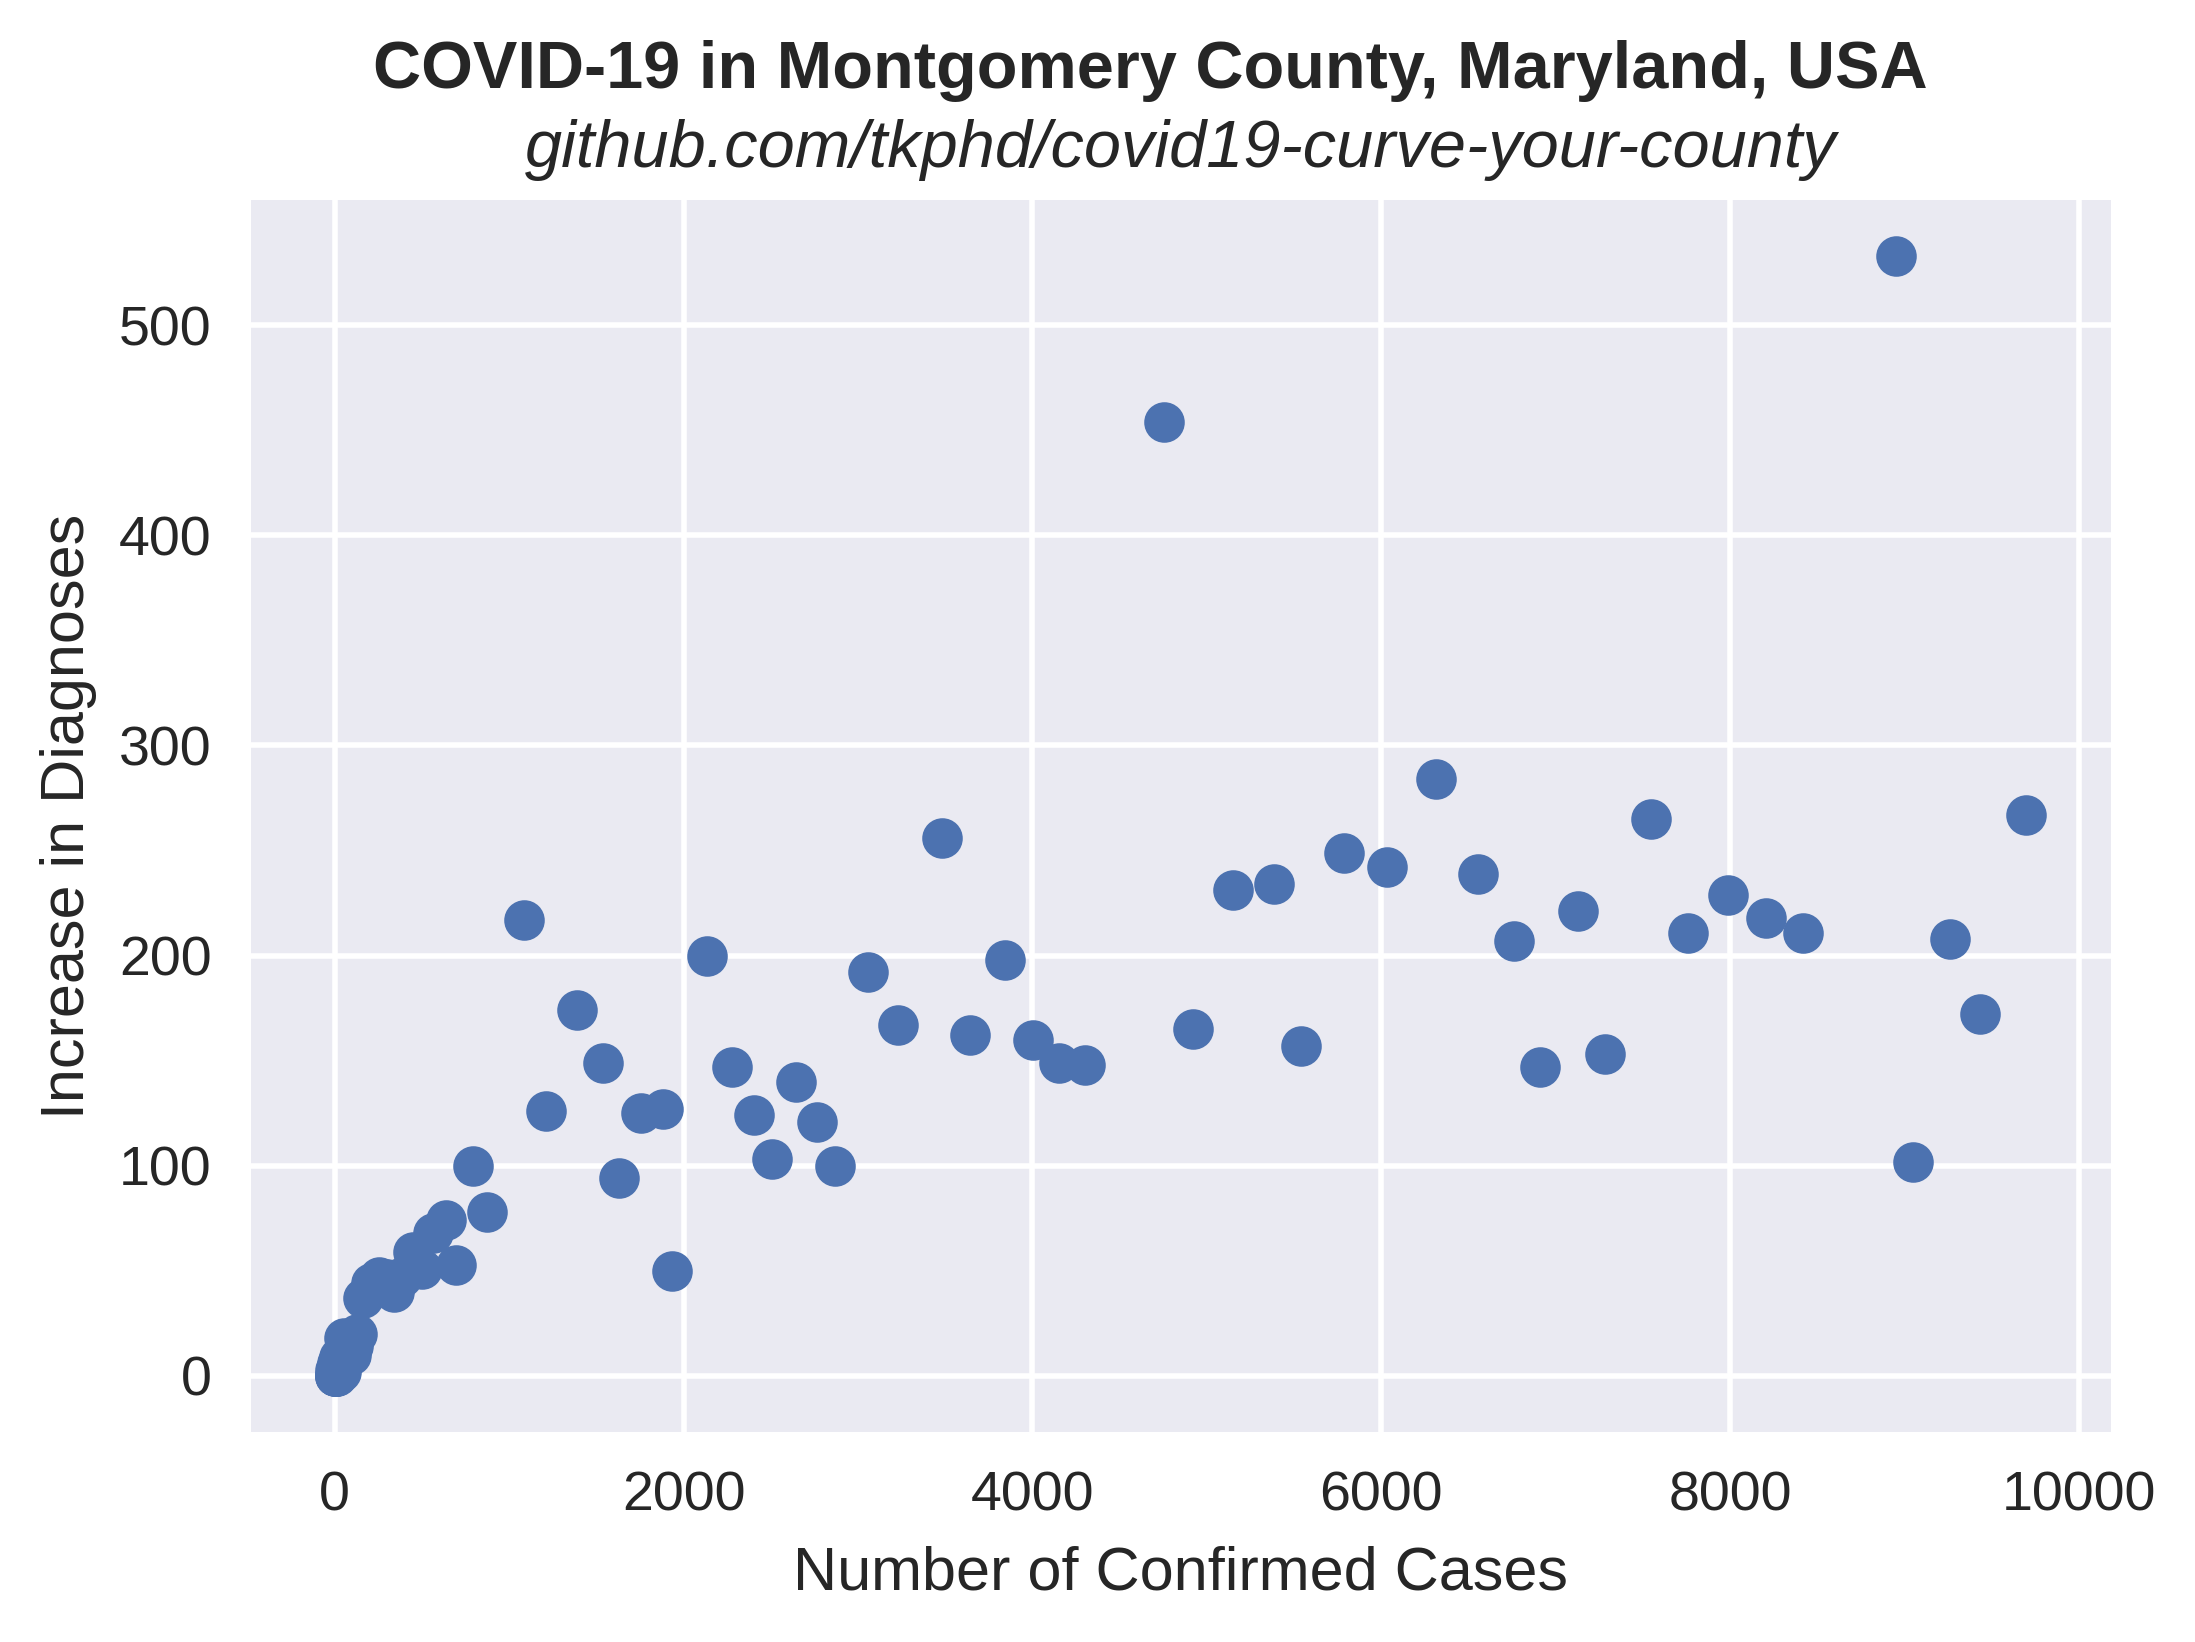
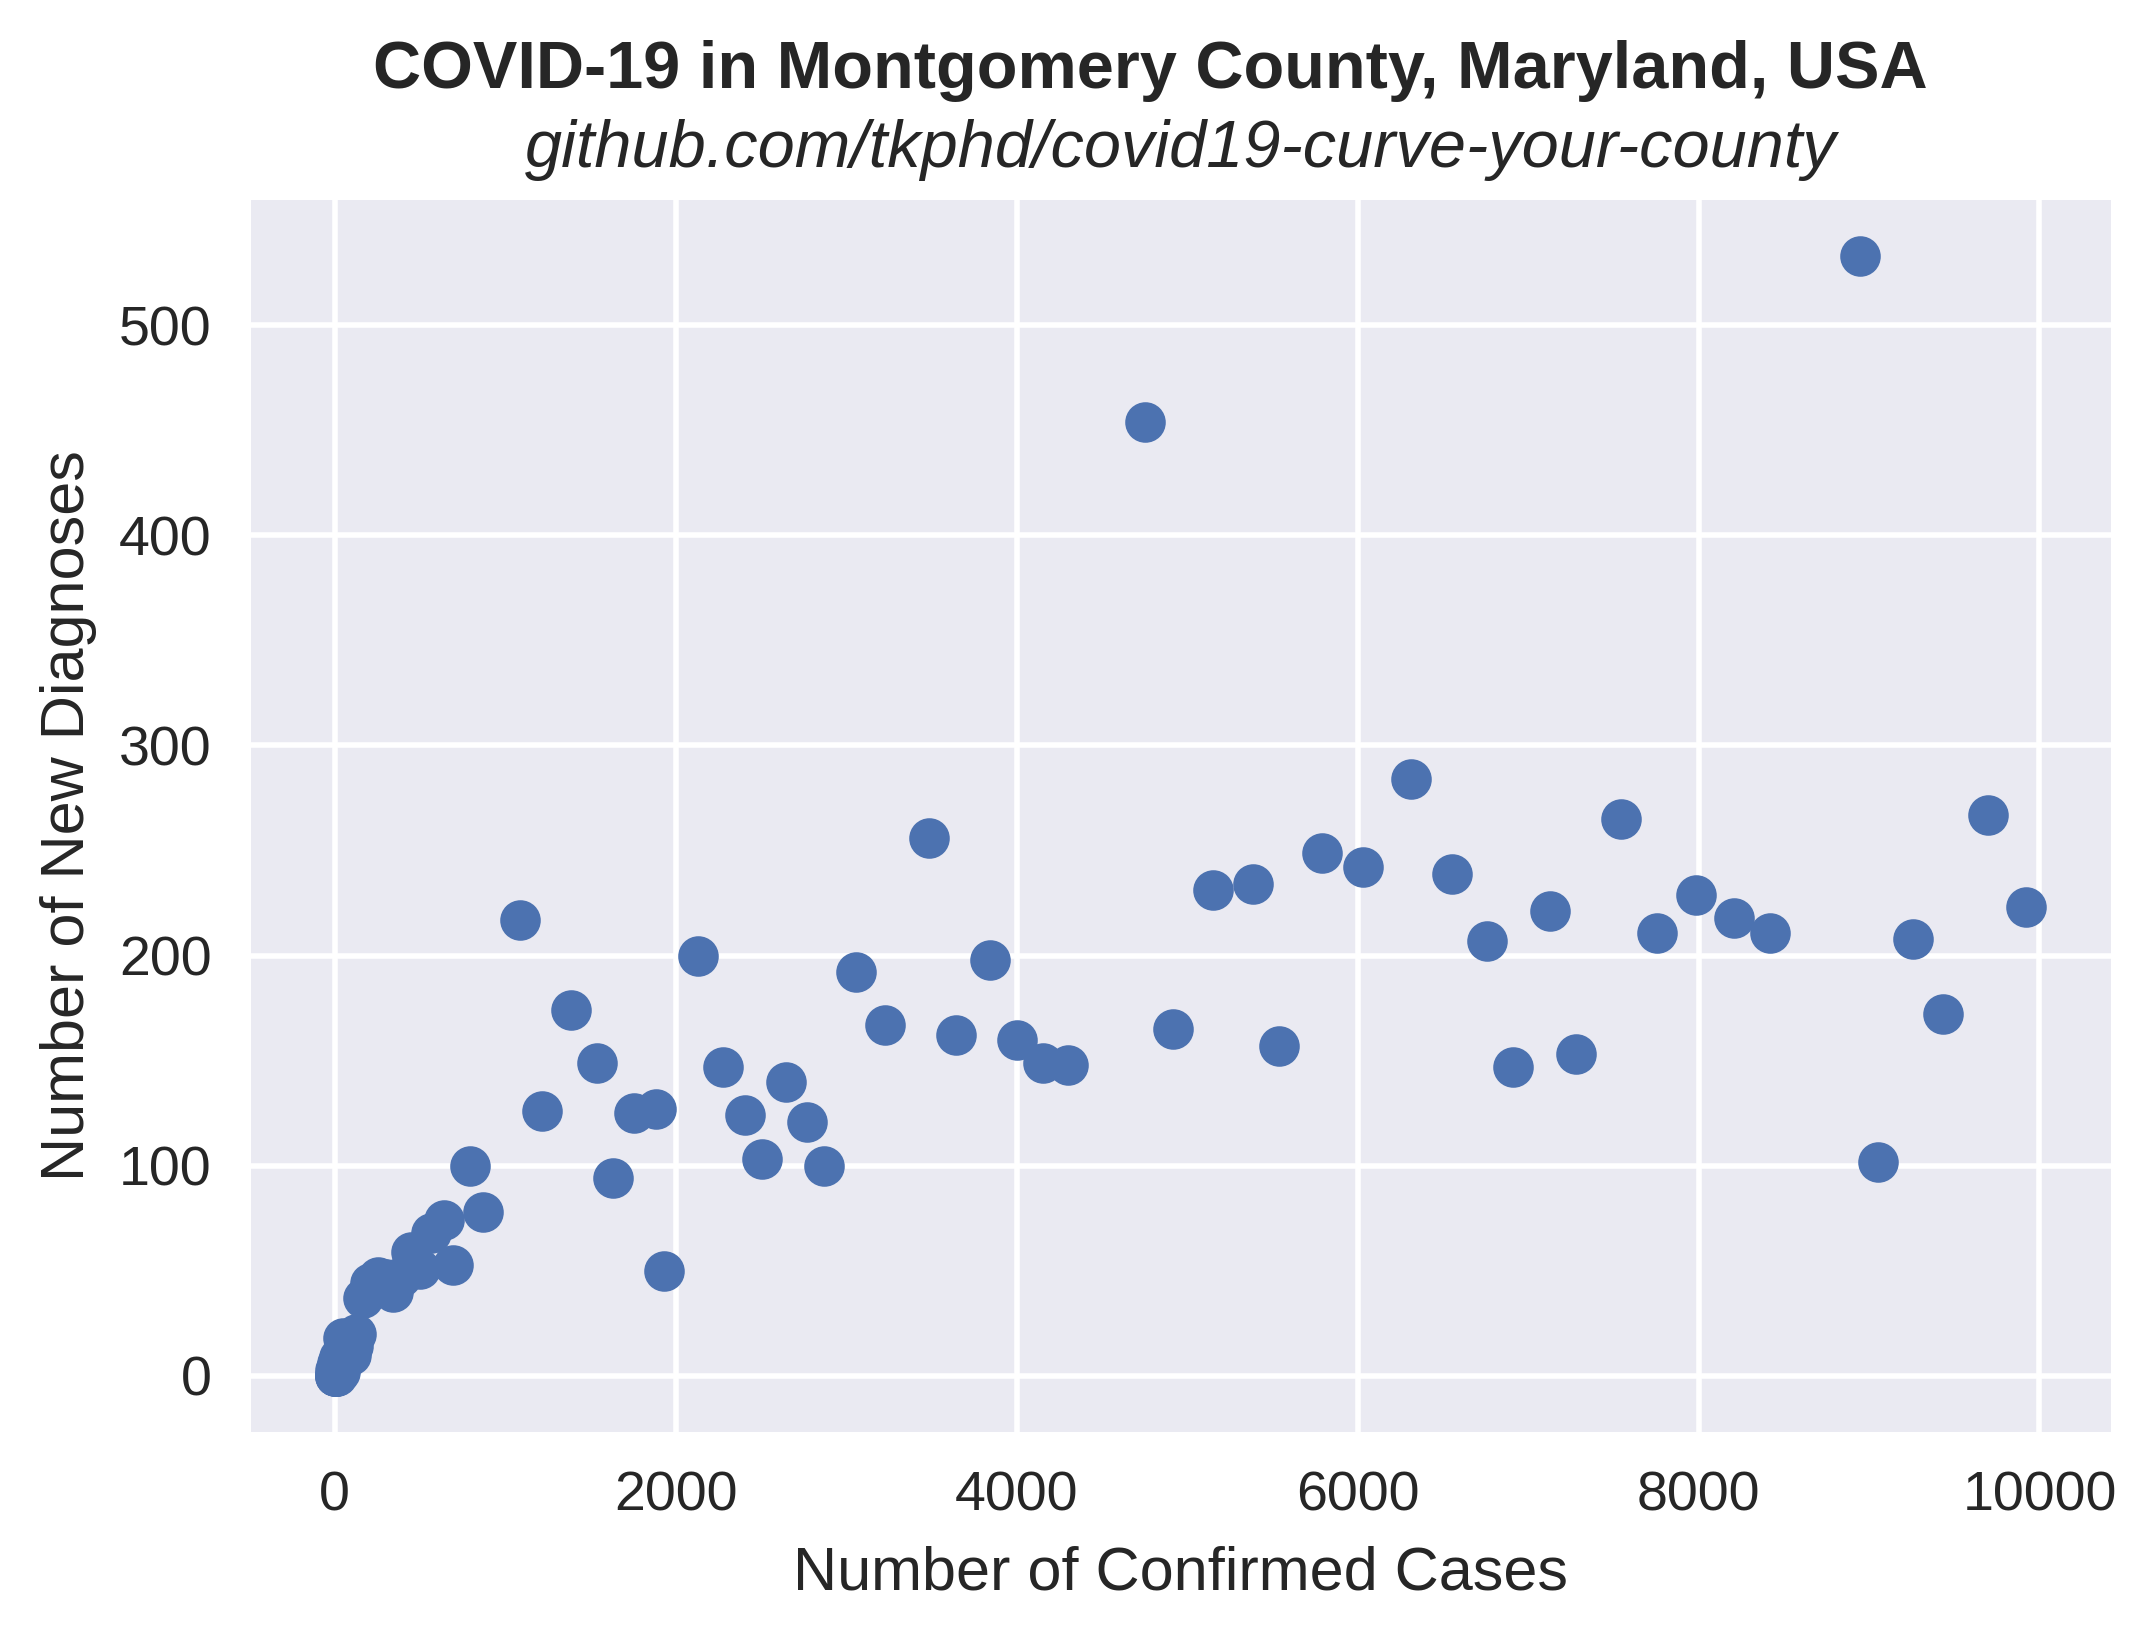
2020-05-24 update

diff --git a/exponential.py b/exponential.py
@@ -260,7 +260,7 @@ plt.savefig(imgname, dpi=400, bbox_inches="tight")
 plt.close()
 
 
-# Plot residuals
+# === Plot residuals ===
 
 fig = plt.figure(figsize=(6, 4))
 plt.title("Residuals: $y - f(t)$")
@@ -285,13 +285,13 @@ plt.xlim([0, len(y)])
 plt.savefig("residuals.png", dpi=400, bbox_inches="tight")
 plt.close()
 
-# === Increment vs Cases ===
+# === Plot Increments ===
 
 fig = plt.figure(figsize=(6, 4))
 plt.suptitle("COVID-19 in Montgomery County, Maryland, USA", fontweight="bold")
 plt.title("github.com/tkphd/covid19-curve-your-county", style="oblique")
 plt.xlabel("Number of Confirmed Cases")
-plt.ylabel("Increase in Diagnoses")
+plt.ylabel("Number of New Diagnoses")
 
 x = np.array(data["diagnosed"])
 y = np.array(x)
@@ -301,4 +301,20 @@ for i in np.arange(1, len(x), 1):
 
 plt.scatter(x, y)
 plt.savefig("increment.png", dpi=400, bbox_inches="tight")
+plt.close()
+
+fig = plt.figure(figsize=(6, 4))
+plt.suptitle("COVID-19 in Montgomery County, Maryland, USA", fontweight="bold")
+plt.title("github.com/tkphd/covid19-curve-your-county", style="oblique")
+plt.xlabel("Number of Confirmed Cases")
+plt.ylabel("Number of New Deaths")
+
+x = np.array(data["killed"])
+y = np.array(x)
+
+for i in np.arange(1, len(x), 1):
+    y[i] -= x[i-1]
+
+plt.scatter(x, y, )
+plt.savefig("increment-deaths.png", dpi=400, bbox_inches="tight")
 plt.close()
